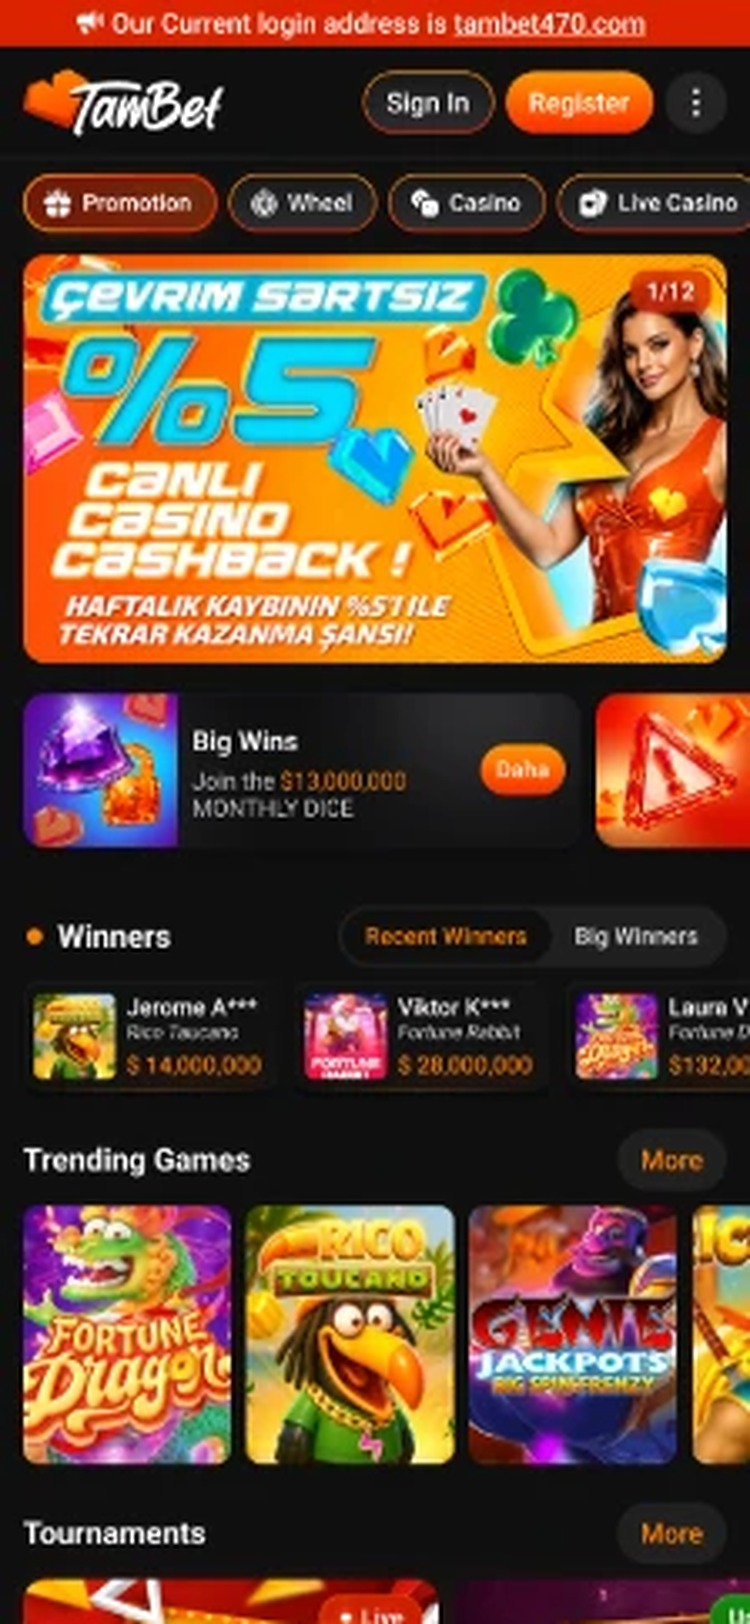
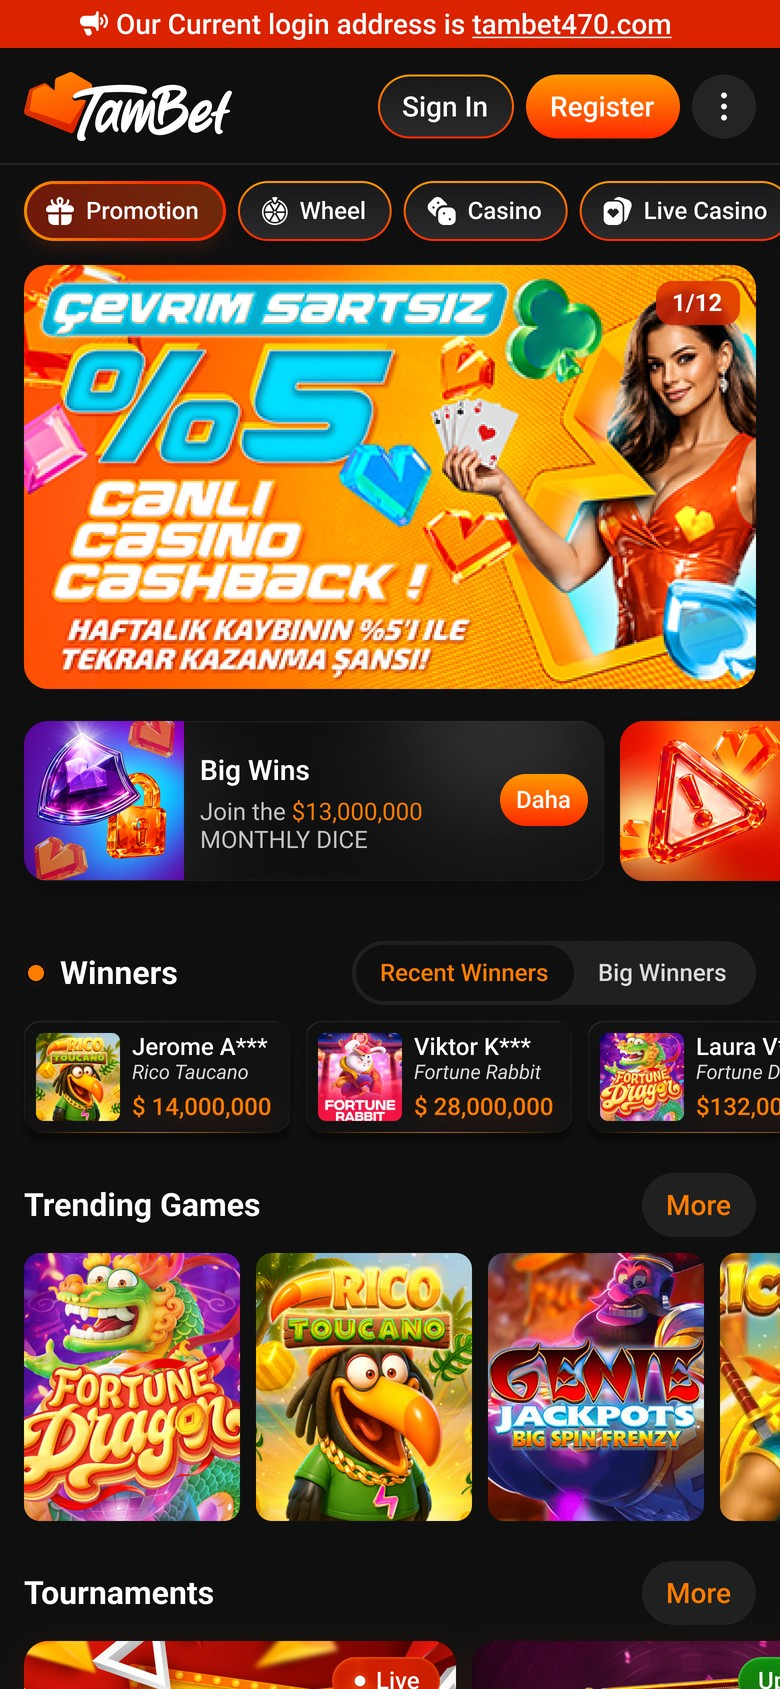
Tambet: full-resolution redesign images

diff --git a/projects/odarobet.html b/projects/odarobet.html
@@ -8,7 +8,7 @@
   <link rel="preconnect" href="https://fonts.googleapis.com">
   <link rel="preconnect" href="https://fonts.gstatic.com" crossorigin>
   <link href="https://fonts.googleapis.com/css2?family=Manrope:wght@400;500;600;700;800&family=Russo+One&display=swap" rel="stylesheet">
-  <link rel="stylesheet" href="../assets/style.css?v=3">
+  <link rel="stylesheet" href="../assets/style.css?v=4">
   <script>
     document.documentElement.classList.add('js');
   </script>
@@ -60,8 +60,8 @@
         <div class="ba-pair">
         <div class="ba-col"><span class="ba-dev">Web</span>
           <figure class="ba" style="--pos:50%">
-            <img class="ba-img" src="../assets/img/odarobet/home-after.jpg?v=3" alt="Homepage with Alvard's custom CSS" loading="lazy">
-            <div class="ba-before"><img class="ba-img" src="../assets/img/odarobet/home-before.jpg?v=3" alt="Homepage without custom CSS (platform default)" loading="lazy"></div>
+            <img class="ba-img" src="../assets/img/odarobet/home-after.jpg?v=4" alt="Homepage with Alvard's custom CSS" loading="lazy">
+            <div class="ba-before"><img class="ba-img" src="../assets/img/odarobet/home-before.jpg?v=4" alt="Homepage without custom CSS (platform default)" loading="lazy"></div>
             <span class="ba-line" aria-hidden="true"><b>‹ ›</b></span>
             <span class="ba-tag ba-l">Before</span>
             <span class="ba-tag ba-r">After</span>
@@ -70,8 +70,8 @@
         </div>
         <div class="ba-col ba-col-m"><span class="ba-dev">Mobile</span>
           <figure class="ba ba-m" style="--pos:50%">
-            <img class="ba-img" src="../assets/img/odarobet/home-m-after.jpg?v=3" alt="Homepage (mobile) with Alvard's custom CSS" loading="lazy">
-            <div class="ba-before"><img class="ba-img" src="../assets/img/odarobet/home-m-before.jpg?v=3" alt="Homepage (mobile) without custom CSS (platform default)" loading="lazy"></div>
+            <img class="ba-img" src="../assets/img/odarobet/home-m-after.jpg?v=4" alt="Homepage (mobile) with Alvard's custom CSS" loading="lazy">
+            <div class="ba-before"><img class="ba-img" src="../assets/img/odarobet/home-m-before.jpg?v=4" alt="Homepage (mobile) without custom CSS (platform default)" loading="lazy"></div>
             <span class="ba-line" aria-hidden="true"><b>‹ ›</b></span>
             <span class="ba-tag ba-l">Before</span>
             <span class="ba-tag ba-r">After</span>
@@ -85,8 +85,8 @@
         <div class="ba-pair">
         <div class="ba-col"><span class="ba-dev">Web</span>
           <figure class="ba" style="--pos:50%">
-            <img class="ba-img" src="../assets/img/odarobet/promos-after.jpg?v=3" alt="Promotions with Alvard's custom CSS" loading="lazy">
-            <div class="ba-before"><img class="ba-img" src="../assets/img/odarobet/promos-before.jpg?v=3" alt="Promotions without custom CSS (platform default)" loading="lazy"></div>
+            <img class="ba-img" src="../assets/img/odarobet/promos-after.jpg?v=4" alt="Promotions with Alvard's custom CSS" loading="lazy">
+            <div class="ba-before"><img class="ba-img" src="../assets/img/odarobet/promos-before.jpg?v=4" alt="Promotions without custom CSS (platform default)" loading="lazy"></div>
             <span class="ba-line" aria-hidden="true"><b>‹ ›</b></span>
             <span class="ba-tag ba-l">Before</span>
             <span class="ba-tag ba-r">After</span>
@@ -95,8 +95,8 @@
         </div>
         <div class="ba-col ba-col-m"><span class="ba-dev">Mobile</span>
           <figure class="ba ba-m" style="--pos:50%">
-            <img class="ba-img" src="../assets/img/odarobet/promos-m-after.jpg?v=3" alt="Promotions (mobile) with Alvard's custom CSS" loading="lazy">
-            <div class="ba-before"><img class="ba-img" src="../assets/img/odarobet/promos-m-before.jpg?v=3" alt="Promotions (mobile) without custom CSS (platform default)" loading="lazy"></div>
+            <img class="ba-img" src="../assets/img/odarobet/promos-m-after.jpg?v=4" alt="Promotions (mobile) with Alvard's custom CSS" loading="lazy">
+            <div class="ba-before"><img class="ba-img" src="../assets/img/odarobet/promos-m-before.jpg?v=4" alt="Promotions (mobile) without custom CSS (platform default)" loading="lazy"></div>
             <span class="ba-line" aria-hidden="true"><b>‹ ›</b></span>
             <span class="ba-tag ba-l">Before</span>
             <span class="ba-tag ba-r">After</span>
@@ -110,8 +110,8 @@
         <div class="ba-pair">
         <div class="ba-col"><span class="ba-dev">Web</span>
           <figure class="ba" style="--pos:50%">
-            <img class="ba-img" src="../assets/img/odarobet/tournaments-after.jpg?v=3" alt="Tournaments with Alvard's custom CSS" loading="lazy">
-            <div class="ba-before"><img class="ba-img" src="../assets/img/odarobet/tournaments-before.jpg?v=3" alt="Tournaments without custom CSS (platform default)" loading="lazy"></div>
+            <img class="ba-img" src="../assets/img/odarobet/tournaments-after.jpg?v=4" alt="Tournaments with Alvard's custom CSS" loading="lazy">
+            <div class="ba-before"><img class="ba-img" src="../assets/img/odarobet/tournaments-before.jpg?v=4" alt="Tournaments without custom CSS (platform default)" loading="lazy"></div>
             <span class="ba-line" aria-hidden="true"><b>‹ ›</b></span>
             <span class="ba-tag ba-l">Before</span>
             <span class="ba-tag ba-r">After</span>
@@ -120,8 +120,8 @@
         </div>
         <div class="ba-col ba-col-m"><span class="ba-dev">Mobile</span>
           <figure class="ba ba-m" style="--pos:50%">
-            <img class="ba-img" src="../assets/img/odarobet/tournaments-m-after.jpg?v=3" alt="Tournaments (mobile) with Alvard's custom CSS" loading="lazy">
-            <div class="ba-before"><img class="ba-img" src="../assets/img/odarobet/tournaments-m-before.jpg?v=3" alt="Tournaments (mobile) without custom CSS (platform default)" loading="lazy"></div>
+            <img class="ba-img" src="../assets/img/odarobet/tournaments-m-after.jpg?v=4" alt="Tournaments (mobile) with Alvard's custom CSS" loading="lazy">
+            <div class="ba-before"><img class="ba-img" src="../assets/img/odarobet/tournaments-m-before.jpg?v=4" alt="Tournaments (mobile) without custom CSS (platform default)" loading="lazy"></div>
             <span class="ba-line" aria-hidden="true"><b>‹ ›</b></span>
             <span class="ba-tag ba-l">Before</span>
             <span class="ba-tag ba-r">After</span>
@@ -150,6 +150,6 @@
   </div>
 </footer>
 
-<script src="../assets/project.js?v=3"></script>
+<script src="../assets/project.js?v=4"></script>
 </body>
 </html>

diff --git a/projects/tambet.html b/projects/tambet.html
@@ -8,7 +8,7 @@
   <link rel="preconnect" href="https://fonts.googleapis.com">
   <link rel="preconnect" href="https://fonts.gstatic.com" crossorigin>
   <link href="https://fonts.googleapis.com/css2?family=Manrope:wght@400;500;600;700;800&family=Russo+One&display=swap" rel="stylesheet">
-  <link rel="stylesheet" href="../assets/style.css?v=3">
+  <link rel="stylesheet" href="../assets/style.css?v=4">
   <script>
     document.documentElement.classList.add('js');
   </script>
@@ -60,8 +60,8 @@
         <div class="ba-pair">
         <div class="ba-col"><span class="ba-dev">Web</span>
           <figure class="ba" style="--pos:50%">
-            <img class="ba-img" src="../assets/img/tambet/home-after.jpg?v=3" alt="Homepage with Alvard's custom CSS" loading="lazy">
-            <div class="ba-before"><img class="ba-img" src="../assets/img/tambet/home-before.jpg?v=3" alt="Homepage without custom CSS (platform default)" loading="lazy"></div>
+            <img class="ba-img" src="../assets/img/tambet/home-after.jpg?v=4" alt="Homepage with Alvard's custom CSS" loading="lazy">
+            <div class="ba-before"><img class="ba-img" src="../assets/img/tambet/home-before.jpg?v=4" alt="Homepage without custom CSS (platform default)" loading="lazy"></div>
             <span class="ba-line" aria-hidden="true"><b>‹ ›</b></span>
             <span class="ba-tag ba-l">Before</span>
             <span class="ba-tag ba-r">After</span>
@@ -70,8 +70,8 @@
         </div>
         <div class="ba-col ba-col-m"><span class="ba-dev">Mobile</span>
           <figure class="ba ba-m" style="--pos:50%">
-            <img class="ba-img" src="../assets/img/tambet/home-m-after.jpg?v=3" alt="Homepage (mobile) with Alvard's custom CSS" loading="lazy">
-            <div class="ba-before"><img class="ba-img" src="../assets/img/tambet/home-m-before.jpg?v=3" alt="Homepage (mobile) without custom CSS (platform default)" loading="lazy"></div>
+            <img class="ba-img" src="../assets/img/tambet/home-m-after.jpg?v=4" alt="Homepage (mobile) with Alvard's custom CSS" loading="lazy">
+            <div class="ba-before"><img class="ba-img" src="../assets/img/tambet/home-m-before.jpg?v=4" alt="Homepage (mobile) without custom CSS (platform default)" loading="lazy"></div>
             <span class="ba-line" aria-hidden="true"><b>‹ ›</b></span>
             <span class="ba-tag ba-l">Before</span>
             <span class="ba-tag ba-r">After</span>
@@ -85,8 +85,8 @@
         <div class="ba-pair">
         <div class="ba-col"><span class="ba-dev">Web</span>
           <figure class="ba" style="--pos:50%">
-            <img class="ba-img" src="../assets/img/tambet/promos-after.jpg?v=3" alt="Promotions with Alvard's custom CSS" loading="lazy">
-            <div class="ba-before"><img class="ba-img" src="../assets/img/tambet/promos-before.jpg?v=3" alt="Promotions without custom CSS (platform default)" loading="lazy"></div>
+            <img class="ba-img" src="../assets/img/tambet/promos-after.jpg?v=4" alt="Promotions with Alvard's custom CSS" loading="lazy">
+            <div class="ba-before"><img class="ba-img" src="../assets/img/tambet/promos-before.jpg?v=4" alt="Promotions without custom CSS (platform default)" loading="lazy"></div>
             <span class="ba-line" aria-hidden="true"><b>‹ ›</b></span>
             <span class="ba-tag ba-l">Before</span>
             <span class="ba-tag ba-r">After</span>
@@ -95,8 +95,8 @@
         </div>
         <div class="ba-col ba-col-m"><span class="ba-dev">Mobile</span>
           <figure class="ba ba-m" style="--pos:50%">
-            <img class="ba-img" src="../assets/img/tambet/promos-m-after.jpg?v=3" alt="Promotions (mobile) with Alvard's custom CSS" loading="lazy">
-            <div class="ba-before"><img class="ba-img" src="../assets/img/tambet/promos-m-before.jpg?v=3" alt="Promotions (mobile) without custom CSS (platform default)" loading="lazy"></div>
+            <img class="ba-img" src="../assets/img/tambet/promos-m-after.jpg?v=4" alt="Promotions (mobile) with Alvard's custom CSS" loading="lazy">
+            <div class="ba-before"><img class="ba-img" src="../assets/img/tambet/promos-m-before.jpg?v=4" alt="Promotions (mobile) without custom CSS (platform default)" loading="lazy"></div>
             <span class="ba-line" aria-hidden="true"><b>‹ ›</b></span>
             <span class="ba-tag ba-l">Before</span>
             <span class="ba-tag ba-r">After</span>
@@ -110,8 +110,8 @@
         <div class="ba-pair">
         <div class="ba-col"><span class="ba-dev">Web</span>
           <figure class="ba" style="--pos:50%">
-            <img class="ba-img" src="../assets/img/tambet/promo-page-after.jpg?v=3" alt="Promotion page with Alvard's custom CSS" loading="lazy">
-            <div class="ba-before"><img class="ba-img" src="../assets/img/tambet/promo-page-before.jpg?v=3" alt="Promotion page without custom CSS (platform default)" loading="lazy"></div>
+            <img class="ba-img" src="../assets/img/tambet/promo-page-after.jpg?v=4" alt="Promotion page with Alvard's custom CSS" loading="lazy">
+            <div class="ba-before"><img class="ba-img" src="../assets/img/tambet/promo-page-before.jpg?v=4" alt="Promotion page without custom CSS (platform default)" loading="lazy"></div>
             <span class="ba-line" aria-hidden="true"><b>‹ ›</b></span>
             <span class="ba-tag ba-l">Before</span>
             <span class="ba-tag ba-r">After</span>
@@ -133,6 +133,6 @@
   </div>
 </footer>
 
-<script src="../assets/project.js?v=3"></script>
+<script src="../assets/project.js?v=4"></script>
 </body>
 </html>

diff --git a/projects/sanpur.html b/projects/sanpur.html
@@ -8,7 +8,7 @@
   <link rel="preconnect" href="https://fonts.googleapis.com">
   <link rel="preconnect" href="https://fonts.gstatic.com" crossorigin>
   <link href="https://fonts.googleapis.com/css2?family=Manrope:wght@400;500;600;700;800&family=Russo+One&display=swap" rel="stylesheet">
-  <link rel="stylesheet" href="../assets/style.css?v=3">
+  <link rel="stylesheet" href="../assets/style.css?v=4">
   <script>
     document.documentElement.classList.add('js');
   </script>
@@ -70,6 +70,6 @@
   </div>
 </footer>
 
-<script src="../assets/project.js?v=3"></script>
+<script src="../assets/project.js?v=4"></script>
 </body>
 </html>

diff --git a/index.html b/index.html
@@ -8,7 +8,7 @@
   <link rel="preconnect" href="https://fonts.googleapis.com">
   <link rel="preconnect" href="https://fonts.gstatic.com" crossorigin>
   <link href="https://fonts.googleapis.com/css2?family=Manrope:wght@400;500;600;700;800&family=Russo+One&display=swap" rel="stylesheet">
-  <link rel="stylesheet" href="assets/style.css?v=3">
+  <link rel="stylesheet" href="assets/style.css?v=4">
   <script>
     document.documentElement.classList.add('js');
   </script>
@@ -212,6 +212,6 @@
   </div>
 </footer>
 
-<script src="assets/app.js?v=3"></script>
+<script src="assets/app.js?v=4"></script>
 </body>
 </html>
